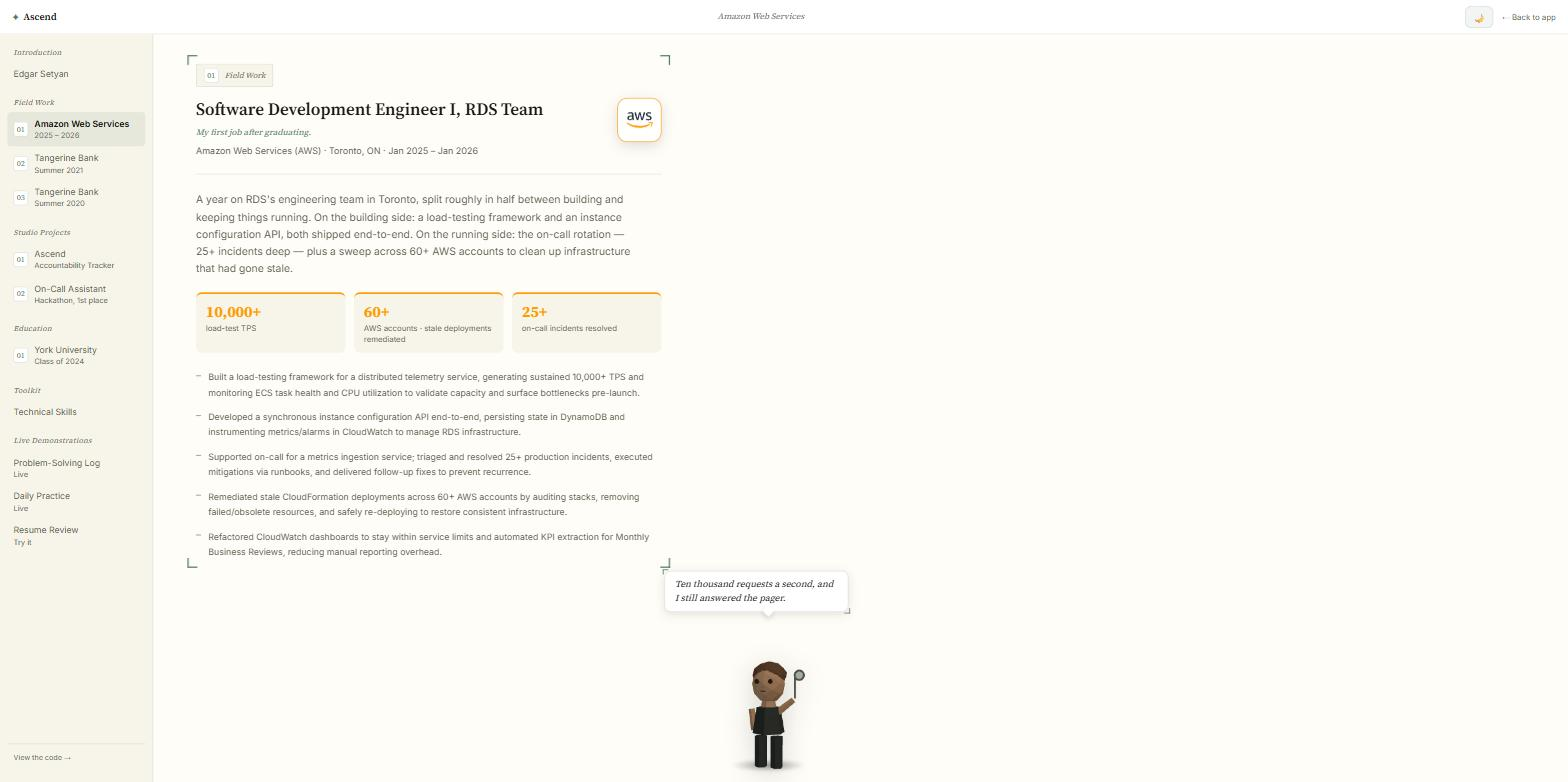
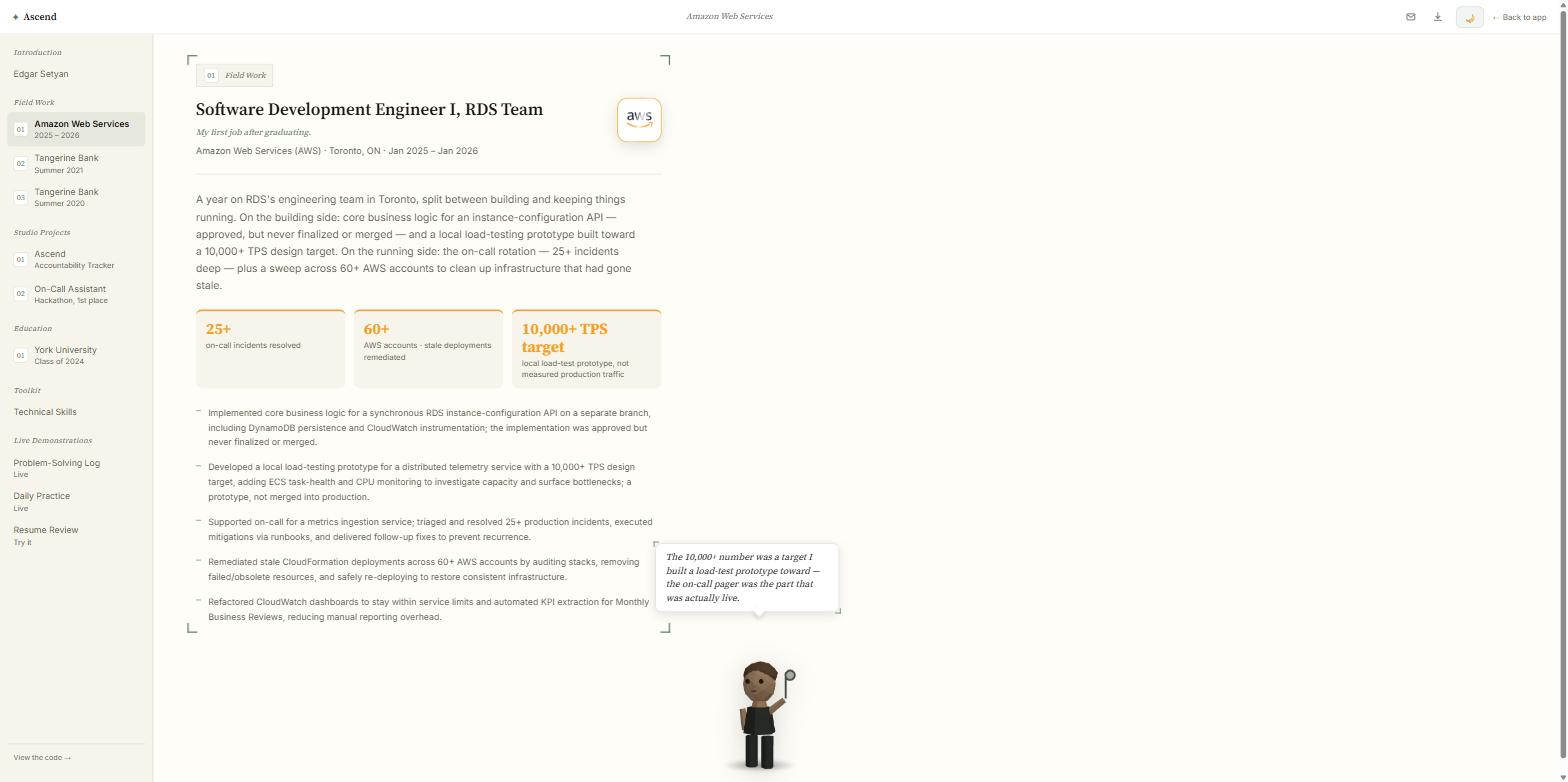
Docs: refresh screenshots and document the case study/demo
- README: swapped the intro/AWS-exhibit screenshots for current ones
  (the old ones showed the now-corrected AWS claims and stats), added
  two new screenshots for the engineering case study and the sample-
  data demo, and documented both in Key Features and Project Structure.
- docs/01-architecture.md: added src/components/portfolio/ to the
  component table, and documented the two new frontend tests plus why
  they're tested in isolation from RecruiterView (pdfjs-dist needs
  DOMMatrix, unavailable in jsdom).
- docs/03-recruiter-layer.md:
  - New "Engineering case study" and "Interactive demo" sections
    describing AscendCaseStudy.jsx / AscendArchitectureDiagram.jsx /
    AscendDemo.jsx and exactly what each covers.
  - Rewrote the "Visual design" section, which still described an old
    purple/gold/teal glassmorphism layout — the page has been the
    cream/sage museum-exhibit design for a while now; this doc hadn't
    caught up.
  - Fixed the "Dark mode" section's CSS var names (--bg/--accent were
    never real; the page uses --exh-bg/--exh-accent) and documented
    RecruiterView's own theme default/storage key.
- docs/05-gmail-scanner.md: added a "See also" pointer to the case
  study's workflow trace and the interactive demo.

No application code changed — screenshots and documentation only.
Build and full test suite (14 frontend + 20 backend) still pass.

Claude-Session: https://claude.ai/code/session_01DX7EooYdPwrKfb4bZhYxW9

diff --git a/docs/03-recruiter-layer.md b/docs/03-recruiter-layer.md
@@ -14,6 +14,7 @@ The portfolio layer solves this: a public, read-only page at `edgarsetyan.com/po
 1. A real resume (experience, projects, skills, education)
 2. A live Claude AI resume scorer (try it with any PDF)
 3. Live tracker data pulled from DynamoDB right now — real data, not screenshots
+4. An engineering case study on the Ascend exhibit itself, for anyone who wants more than the résumé bullets — see "Engineering case study" below
 
 ---
 
@@ -97,7 +98,7 @@ Strip `USER#` prefix → that's the Cognito sub. It's saved in `infra/.env`. It'
 
 ### Dark mode
 
-`RecruiterView` calls `useTheme()` directly. This is the same hook used in `AppShell`. It reads the stored preference from `localStorage` on mount and sets `data-theme` on `document.documentElement`. The CSS vars (`--bg`, `--bg-surface`, `--accent`, etc.) then apply the correct theme everywhere on the page.
+`RecruiterView` calls `useTheme('light', 'portfolio-theme')` — the same hook `AppShell` uses, but with its own default (light, not the tracker app's dark default) and its own storage key, so toggling theme here doesn't affect Edgar's own tracker app and vice versa. It sets `data-theme` on `document.documentElement`; the page's own CSS vars (`--exh-bg`, `--exh-accent`, etc., defined under `.exh-page` in `exhibit-view.css`) then apply the correct theme.
 
 Without this call, the page would always render in light mode because `data-theme` would never be set.
 
@@ -121,6 +122,25 @@ No `Authorization` header. The browser calls the API Gateway public route direct
 
 `RecruiterView` renders `<LeetCodeProfile fixedUsername="user2986fQ" fixedDisplayName="Eddy-Setyan" />`. The `fixedUsername` prop bypasses the localStorage prompt flow entirely — the banner always shows Edgar's data, no edit controls, read-only. The component fetches from `/api/leetcode-stats?username=user2986fQ` (Vercel serverless proxy to LeetCode GraphQL, CDN-cached 5 min).
 
+### The Ascend exhibit's engineering case study
+
+The Ascend exhibit (`/portfolio/projects/ascend`) starts with the same short résumé-style summary every other exhibit uses. Below it, a "Show me the engineering →" button (`src/components/RecruiterView.jsx`, `showEngineering` state) reveals `<AscendCaseStudy />` in place — no navigation, no page load, just a state toggle. It resets when you leave the exhibit, so coming back later starts collapsed again.
+
+`src/components/portfolio/AscendCaseStudy.jsx` covers, in order:
+
+1. **The problem** — why one tracker with pluggable tracker types instead of four separate apps.
+2. **System overview** — a short request/data-flow explanation plus `AscendArchitectureDiagram.jsx`, a hand-built inline SVG (no generated image) styled with the same `--exh-*` CSS custom properties as the rest of the gallery, with an always-visible text-equivalent list underneath for accessibility and to survive a broken image / high zoom.
+3. **Engineering decisions** — three, each with the requirement, the actual implementation (with a source link), and a concrete tradeoff: the single-table DynamoDB access pattern (including that `GSI1` is written on every create but nothing queries it yet — a real gap, not glossed over), the separate public Lambda's single-tenant design, and the Gmail OAuth → Claude → review-modal flow's `localStorage` handoff and heuristic classification.
+4. **One workflow in detail** — a numbered trace of "click Scan Emails" through `EmailScanner.jsx` → Gmail API → `api/scan-emails.js` → Claude Haiku → the review modal → `useEntries.js` → `entries-create.mjs` → DynamoDB, ending in an expandable `<details>` showing the actual `PutCommand`.
+5. **Limitations and next steps** — specific, code-verified gaps (see point 3), not generic caveats.
+6. **Explore** — the interactive demo (below) plus direct GitHub links to the specific files referenced above.
+
+Every technical claim in this section was checked against the current code before being written, not carried over from an earlier design.
+
+### Interactive demo (sample data)
+
+`src/components/portfolio/AscendDemo.jsx`, embedded in the case study's Explore section. Reproduces the Gmail scanner's review-before-import step — four fictional applications (Nimbus Cloud Systems, Solstice Analytics, Riverbed Data Co., Fernwood Robotics), a checkbox per row, "Simulate import" shows exactly which rows would land in the Jobs tracker, "Reset demo" restores the initial state. All state is local `useState` — no `fetch`, no `localStorage`, no Cognito, no Gmail, no Claude call. Labeled "Interactive demo · Sample data" in the UI so it's never mistaken for a live backend operation.
+
 ### Resume analyzer
 
 `RecruiterView` imports `ScoreCircle`, `CatBar`, `DropZone`, `scoreResume`, and `extractTextFromPdf` from `ResumeReview.jsx` (these were given named exports in this session).
@@ -139,19 +159,19 @@ Nothing is saved. The recruiter page has no DynamoDB write path.
 
 ## Visual design
 
-The portfolio page uses a distinct visual layer (`rc-` CSS prefix throughout) that runs independently of the main app styles.
+The portfolio page runs its own visual layer (`exh-` CSS class prefix, `src/styles/exhibit-view.css` + `src/styles/ascend-case-study.css`) that's independent of the main app's styles — a museum/gallery concept ("The Exhibit"), not a typical dev-portfolio look.
 
-**Background:** Dot grid (28px, drifts diagonally on a 14s loop) layered with three ambient color blobs — purple top-left, gold top-right, teal bottom-center. Applied to both light and dark mode (dark at ~1.3× opacity). The blobs use `background-image` stacking so the drift animation only moves the dot grid layer.
+**Palette:** Warm paper background (`--exh-bg: #fffdf7` light / near-black `#14150f` dark) with a soft sage-green accent (`--exh-accent: #4f7a63` light / `#8fc2a6` dark) — no gradients, no glassmorphism, no ambient background animation.
 
-**Nav:** Glassmorphism — `rgba` semi-transparent background + `backdrop-filter: blur(18px)`. Content scrolls visibly behind a frosted bar.
+**Typography:** Source Serif 4 for headings and eyebrow labels (`--exh-font-display`), Inter for body copy (`--exh-font-body`), JetBrains Mono for code excerpts (`--exh-font-mono`).
 
-**Hero:** Name at `3.2rem` with a white→purple gradient in dark mode. Role as a pill badge. One-line description below the badge ("A full-stack productivity tracker I built on AWS — this is the live version") anchors the page for first-time visitors. Elements blur-dissolve in on load with staggered delays (0–320ms).
+**Layout:** A sidebar of numbered nav groups (Field Work, Studio Projects, Education, Toolkit, Live Demonstrations) next to a single centered "exhibit frame" per page — each experience/project/education entry is a numbered plate (`01`, `02`, ...) with display-case corner brackets, styled like a small museum's placards rather than a resume-shaped list.
 
-**Contact icons:** Inline SVG paths (GitHub octicon, LinkedIn logo) inside 26×26px icon boxes — no font/glyph dependency.
+**The guide:** A low-poly Three.js character standing in the corner of every exhibit (hidden on mobile and disabled under `prefers-reduced-motion`), with a per-exhibit speech-bubble caption. Clicking "Come on, I'll show you around" on the Introduction plate starts a click-driven guided tour through every exhibit in sidebar order; manual navigation, browser Back/Forward, or "Stop tour" all cancel it immediately rather than fighting a visitor who takes over.
 
-**Cards:** Left-border accent per category (amber = AWS experience, teal = Tangerine, purple = projects). Hover lifts 3px with a tier-colored glow ring. Scroll-triggered entrance: `translateY(28px) scale(0.97)` → natural with `cubic-bezier(0.16, 1, 0.3, 1)` spring easing.
+**Contact icons:** Inline SVG paths (GitHub octicon, LinkedIn logo, plain envelope/download glyphs) — no font/glyph dependency. Full labeled links live on the Introduction plate; compact icon-only versions of the résumé/email links stay in the topbar on every other exhibit.
 
-**GitHub CTA:** Centered outlined pill link ("View the code →") below the Live Tracker Data section, before the footer. Closes the loop for visitors who want to see the source.
+**Featured cards + case study:** The Introduction plate calls out AWS and Ascend with larger, left-accented cards above the category grid. The Ascend exhibit's case study (see above) reuses the same plate/card language — numbered decision cards, the same table styles as the live LeetCode data — rather than introducing a second visual system.
 
-**Light mode:** All effects mirrored at ~55% of dark-mode intensity (softer blobs, lighter glow).
+**Light/dark:** Both themes are first-class (`[data-theme="dark"] .exh-page` token overrides), not a dimmed copy of one primary theme.
 

diff --git a/docs/01-architecture.md b/docs/01-architecture.md
@@ -37,6 +37,8 @@ API Gateway (HTTP API v2)       Vercel Serverless Functions    Gmail API
 | `src/main.jsx` | React root. Wraps the tree: `BrowserRouter > ToastProvider > AuthProvider > App` |
 | `src/App.jsx` | Route guard. `/portfolio` and `/oauth-callback` are public; `/` requires auth via `AuthGate`; `*` renders `NotFound` |
 | `src/components/AppShell` | The authenticated app: sidebar, topbar, tracker table, modals |
+| `src/components/RecruiterView.jsx` | The public `/portfolio` page — résumé content, the tour guide, the Ascend exhibit's "Show me the engineering" toggle |
+| `src/components/portfolio/` | `AscendCaseStudy.jsx`, `AscendArchitectureDiagram.jsx` (inline SVG), `AscendDemo.jsx` (sample-data demo) — the case study revealed on the Ascend exhibit |
 | `src/hooks/useEntries.js` | All DynamoDB reads/writes live here. Optimistic updates with rollback |
 | `src/context/AuthContext.jsx` | Cognito session state — keeps its own React-state copy of the JWT; the underlying Cognito SDK session (which the token actually comes from) is localStorage-backed |
 | `src/context/ToastContext.jsx` | Global toast system. Any component calls `useToast().addToast()` |
@@ -158,11 +160,11 @@ CDK synthesizes a CloudFormation template and uploads Lambda bundles to S3. Clou
 | Layer | Tool | Command | What's covered |
 |---|---|---|---|
 | Lambda shared utils | Node `node:test` (built-in) | `cd infra && npm test` | `validateTrackerId`, `validateBody`, public tracker whitelist, `OWNER_USER_ID` guard |
-| React components | Vitest + Testing Library | `npm test` (root) | `StatsBar` rendering, null/empty states, inline color styles |
+| React components | Vitest + Testing Library | `npm test` (root) | `StatsBar` rendering, null/empty states, inline color styles; `AscendDemo` sample-data selection/import/reset; `AscendCaseStudy` renders every required section, the diagram's accessible title, and its source links |
 
 Lambda tests use Node's built-in test runner — no extra dependencies, runs natively with ESM on Node 22.
 
-Frontend tests use Vitest (same config as Vite, zero overhead) with jsdom for a browser-like environment.
+Frontend tests use Vitest (same config as Vite, zero overhead) with jsdom for a browser-like environment. `AscendCaseStudy`/`AscendDemo` are tested in isolation rather than through `RecruiterView` — the full page pulls in `pdfjs-dist` (via `ResumeReview.jsx`), which needs `DOMMatrix` and isn't available in jsdom.
 
 ---
 

diff --git a/README.md b/README.md
@@ -9,6 +9,10 @@ A personal accountability tracker built with a production AWS stack. Tracks Leet
   <img src="docs/screenshot-exhibit.jpg" width="32%" alt="An exhibit plate on the public portfolio, framed like a museum display case" />
   <img src="docs/screenshot-resume-review.jpg" width="32%" alt="Resume Review — a live Claude-powered resume scorer on the public portfolio" />
 </p>
+<p>
+  <img src="docs/screenshot-case-study.jpg" width="32%" alt="The Ascend engineering case study — problem, system overview, and architecture diagram, revealed in place on the Ascend exhibit" />
+  <img src="docs/screenshot-demo.jpg" width="32%" alt="Interactive demo with sample data — the review-before-import step from the Gmail scanner, reproduced with fictional applications" />
+</p>
 
 ---
 
@@ -63,6 +67,8 @@ Browser (React + Vite)
 
 **Public portfolio page** — `/portfolio` is unauthenticated. A dedicated read-only Lambda hardcodes the owner's Cognito sub as the DynamoDB partition key — no user input touches the PK. Tracker whitelist returns 404 (not 403) for non-allowed trackers.
 
+**Engineering case study** — the Ascend exhibit on `/portfolio` has a "Show me the engineering" toggle that reveals a full case study in place: the problem, a system-overview architecture diagram (inline SVG, no generated image), three engineering decisions with their tradeoffs, a step-by-step trace of the Gmail-scan-to-DynamoDB-write workflow, known limitations, and an **interactive demo with clearly labeled sample data** — reproduces the scanner's review-before-import step with four fictional applications, entirely client-side, no network/auth/storage calls. `src/components/portfolio/`.
+
 ---
 
 ## Notable Design Decisions
@@ -86,9 +92,11 @@ Browser (React + Vite)
 ```
 ├── src/
 │   ├── components/       React components
+│   │   └── portfolio/    Ascend engineering case study, architecture diagram, sample-data demo
 │   ├── context/          AuthContext, ToastContext
 │   ├── hooks/            useEntries (DynamoDB CRUD), useTheme, useNotifications
 │   ├── lib/              Cognito SDK wrapper, API client
+│   ├── styles/           exhibit-view.css (portfolio page), ascend-case-study.css
 │   ├── trackers/         Per-tracker config (columns, badges, sort defaults)
 │   └── utils/            Stats, streaks, CSV export
 ├── api/                  Vercel serverless functions

diff --git a/docs/05-gmail-scanner.md b/docs/05-gmail-scanner.md
@@ -182,3 +182,9 @@ The app does **not** need to pass Google verification as long as you stay in Tes
 | Client ID leakage | Intentionally public; protected by allowed origins in Google Cloud Console |
 | Unauthorized domain use | Google rejects OAuth requests from origins not in the allow-list |
 | Incorrect status updates | Conservative Claude matching — unconfident follow-ups fall back to new_application |
+
+---
+
+## See also
+
+This exact end-to-end flow (minus the OAuth/Gmail/Claude calls) is traced step-by-step, with source links, in the "One workflow in detail" section of the Ascend exhibit's engineering case study on `/portfolio` (`src/components/portfolio/AscendCaseStudy.jsx`) — see `docs/03-recruiter-layer.md`. That same page also has an **interactive demo** (`AscendDemo.jsx`) that reproduces the review-before-import step with four fictional applications, for anyone who wants to try it without connecting Gmail.
